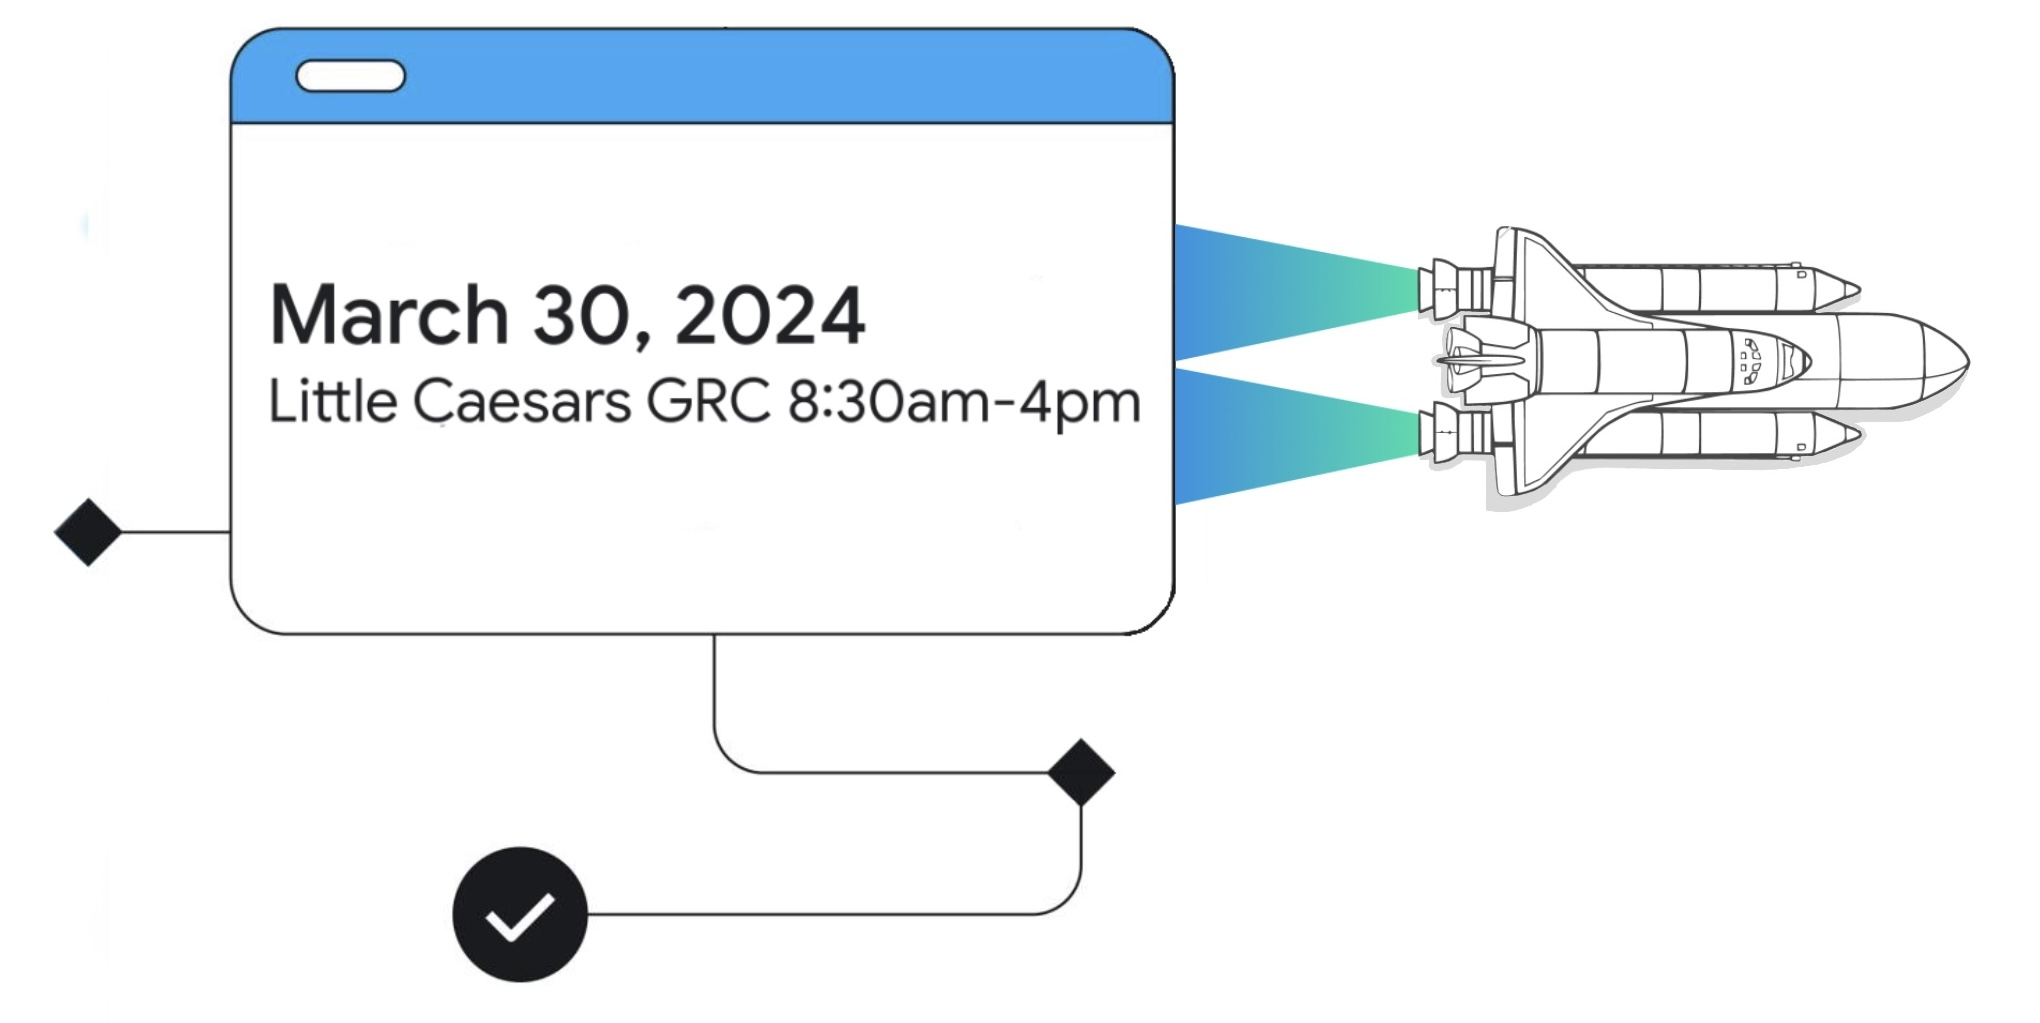
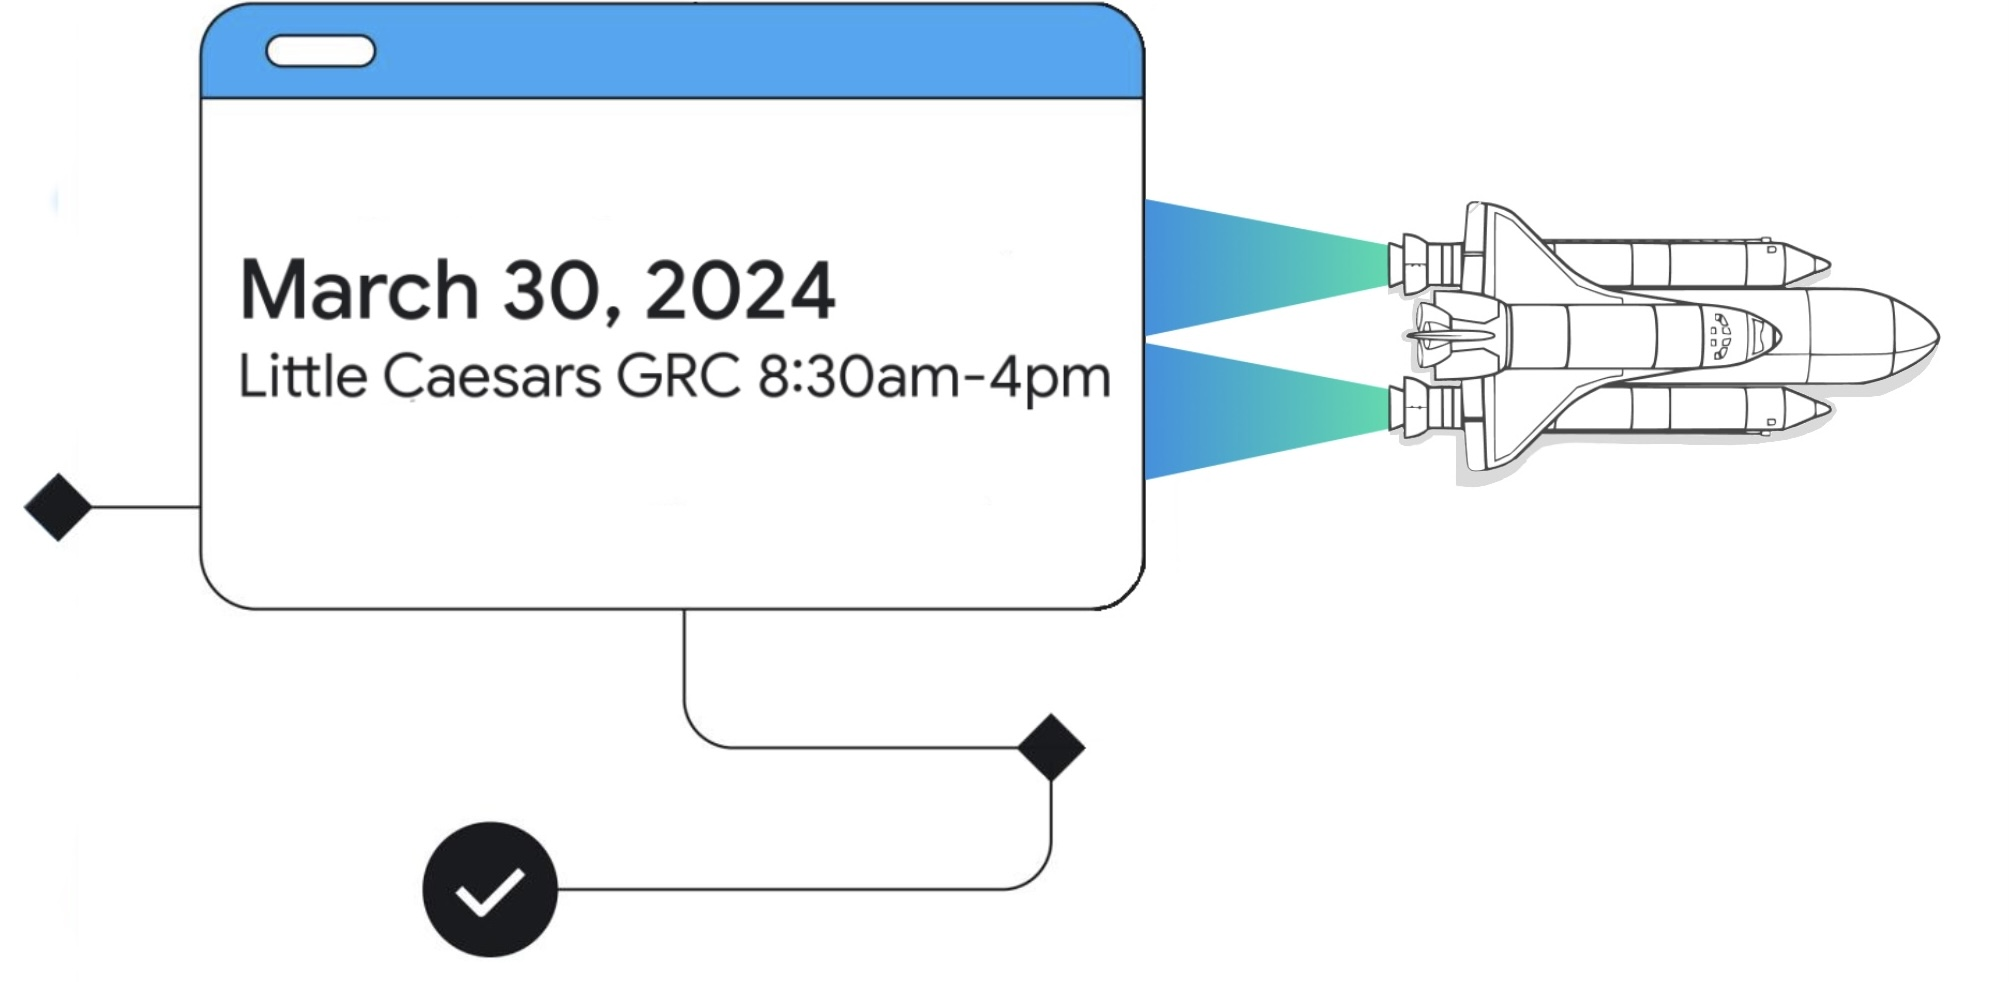
added animation gif

diff --git a/iwd-app/src/components/hero-banner/hero.css b/iwd-app/src/components/hero-banner/hero.css
@@ -17,7 +17,7 @@
 .title-div{
     max-width: 28vw;
     width: 100%;
-    margin-right: 14%;
+    margin-right: 9%;
     height: 550px;
 }
 
@@ -51,7 +51,9 @@
     margin-left: -5px;
 }
 #woman-hero{
-    max-height: 470px;
+    max-height: 450px;
+    z-index: 100;
+    margin-right: 6%;
 }
 #background-img {
     position: absolute;
@@ -62,15 +64,22 @@
     min-height: 300px; 
 }
 
-#date-img{
-    position: absolute;
-    bottom: 0;
-    width: 35%; 
-    height: auto; 
-    z-index: -1;
-    right: 0;
-    margin-right: 10%;
+#date-animation, #date-img {
+    position: static; /* default, or remove the position property entirely */
+    width: 100%; /* Adjust this as needed */
+    margin-right: 0; /* Remove the margin-right if it's no longer necessary */
+    height: auto; /* To maintain aspect ratio */
 }
+#date-img{
+    max-width: 35%; /* To maintain the desired width */
+    margin-bottom: 20px;
+}
+#date-animation{
+    max-width: 15%; /* To maintain the desired width */
+    margin-right: 25%;
+    margin-bottom: -1px;
+}
+
 #tickets-btn{
     width: 80%;
     display: flex;
@@ -78,4 +87,18 @@
     justify-content: center;
     background-color: gray;
     height: 6vh;
+}
+
+.date-img-div {
+    display: flex;
+    flex-direction: column;
+    align-items: flex-end; /* Center-align children if desired */
+    justify-content: center; /* Adjust this if you need to control vertical spacing */
+    height: auto; /* Or a fixed height if you want to explicitly set it */
+    position: absolute;
+    bottom: 0;
+    height: auto;
+    right: 0;
+    margin-right: 10%;
+
 }

diff --git a/iwd-app/src/components/hero-banner/hero.jsx b/iwd-app/src/components/hero-banner/hero.jsx
@@ -4,7 +4,7 @@ import globeGIF from "../../assets/hero/globe.gif"
 import heroGirl from "../../assets/hero/women-hero.png";
 import background from "../../assets/hero/hero-background.PNG";
 import date from "../../assets/hero/rocket-2.jpeg";
-
+import dateAnimation from "../../assets/hero/date-animation.gif";
 
 function Hero() {
   return (
@@ -29,7 +29,10 @@ function Hero() {
         <img id="woman-hero" src={heroGirl}></img>
       </div>
       <img id="background-img" src={background}></img>
-      <img id="date-img" src={date}></img>
+      <div className="date-img-div">
+        <img id="date-animation" src={dateAnimation}></img>
+        <img id="date-img" src={date}></img>
+      </div>
     </div>
   );
 }
